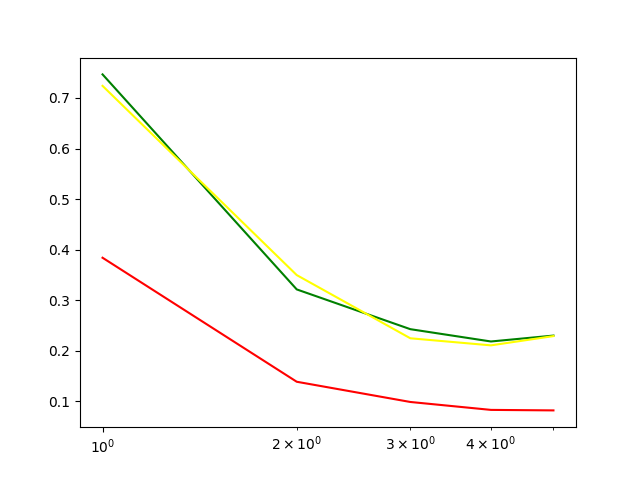
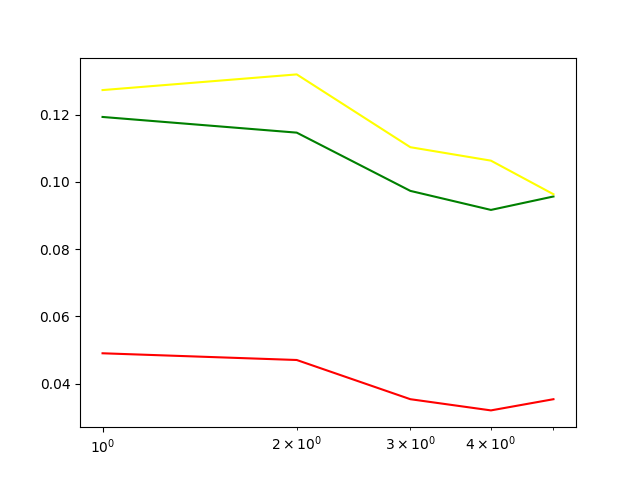
feat:checkpoint

diff --git a/experimentsGMM.py b/experimentsGMM.py
@@ -1,6 +1,6 @@
 from src_lib import *
 from data import *
-from src_lib.GMM_Model import GMMLBG_Diag_Model, GMMLBG_Model, GMMLBG_Tied_Model
+from src_lib.GMM_Model import GMMLBG_DT_Model, GMMLBG_Diag_Model, GMMLBG_Model, GMMLBG_Tied_Model
 from src_lib.SVM_Model import Kernel
 
 FOLDS = 5
@@ -137,7 +137,7 @@ class ExperimentsGMM:
         if VERBOSE:
             plot_vals(minDCFList, vals)
             plot_vals(accuracies, vals)
-            #0.0819 - 0.2300 - 0.2289
+            #0.0320 - 0.0916 - 0.1063
 
     def find_best_K_T_PCA8(self):
         
@@ -156,8 +156,8 @@ class ExperimentsGMM:
         minDCFs, vals, accs = kcv.find_best_par(model, self.DTR, self.LTR, 0,(1, 5), logbase=2, n_vals = 5, logBounds=False, e_prior=self.female_app[0])
         minDCFList.append(minDCFs)
         accuracies.append(accs)
-
-        model = GMMLBG_Tied_Model(2,STOP_TH, 1, preproc)#GMMLBG_Diag_Model(2,1e-3,3, bound=0.05)
+        
+        model = GMMLBG_Tied_Model(2,STOP_TH, 1, preProcess = preproc)#GMMLBG_Diag_Model(2,1e-3,3, bound=0.05)
         kcv = KCV(model, 5)
         minDCFs, vals, accs = kcv.find_best_par(model, self.DTR, self.LTR, 0,(1, 5), logbase=2, n_vals = 5, logBounds=False, e_prior=self.male_app[0])
         minDCFList.append(minDCFs)
@@ -165,6 +165,9 @@ class ExperimentsGMM:
         if VERBOSE:
             plot_vals(minDCFList, vals)
             plot_vals(accuracies, vals)
+
+    def plot_K_T_PCA8(self):
+        minDCFList = [[0.0670, 0.0670, 0.0849, 0.0996, 0.0803],[0.1600, 0.1590, 0.0206, 0.2956,0.2066],[0.1413, 0.1353,0.1156,0.1100,0.1153]]
 
     
     def find_best_K_T_Gauss(self):
@@ -185,7 +188,7 @@ class ExperimentsGMM:
         minDCFList.append(minDCFs)
         accuracies.append(accs)
 
-        model = GMMLBG_Tied_Model(2,STOP_TH, 1, preproc)#GMMLBG_Diag_Model(2,1e-3,3, bound=0.05)
+        model = GMMLBG_Tied_Model(2,STOP_TH, 1, preProcess=preproc)#GMMLBG_Diag_Model(2,1e-3,3, bound=0.05)
         kcv = KCV(model, 5)
         minDCFs, vals, accs = kcv.find_best_par(model, self.DTR, self.LTR, 0,(1, 5), logbase=2, n_vals = 5, logBounds=False, e_prior=self.male_app[0])
         minDCFList.append(minDCFs)
@@ -222,7 +225,7 @@ class ExperimentsGMM:
             plot_vals(accuracies, vals)
             #0.0819 - 0.2300 - 0.2289
 
-    def find_best_K_T_PCA8(self):
+    def find_best_K_N_PCA8(self):
         
         minDCFList = []
         accuracies = []
@@ -240,7 +243,7 @@ class ExperimentsGMM:
         minDCFList.append(minDCFs)
         accuracies.append(accs)
 
-        model = GMMLBG_Diag_Model(2,STOP_TH, 1, preproc)#GMMLBG_Diag_Model(2,1e-3,3, bound=0.05)
+        model = GMMLBG_Diag_Model(2,STOP_TH, 1, preProcess=preproc)#GMMLBG_Diag_Model(2,1e-3,3, bound=0.05)
         kcv = KCV(model, 5)
         minDCFs, vals, accs = kcv.find_best_par(model, self.DTR, self.LTR, 0,(1, 5), logbase=2, n_vals = 5, logBounds=False, e_prior=self.male_app[0])
         minDCFList.append(minDCFs)
@@ -252,7 +255,7 @@ class ExperimentsGMM:
     def plot_K_T_raw(self):
         minDCFList = [[0.0666, 0.7166, 0.0783, 0.0863, 0.0926], [0.156, 0.1716, 0.2030, 0.2640, 0.2470]]
     
-    def find_best_K_T_Gauss(self):
+    def find_best_K_N_Gauss(self):
         
         minDCFList = []
         accuracies = []
@@ -270,7 +273,7 @@ class ExperimentsGMM:
         minDCFList.append(minDCFs)
         accuracies.append(accs)
 
-        model = GMMLBG_Diag_Model(2,STOP_TH, 1, preproc)#GMMLBG_Diag_Model(2,1e-3,3, bound=0.05)
+        model = GMMLBG_Diag_Model(2,STOP_TH, 1, preProcess=preproc)#GMMLBG_Diag_Model(2,1e-3,3, bound=0.05)
         kcv = KCV(model, 5)
         minDCFs, vals, accs = kcv.find_best_par(model, self.DTR, self.LTR, 0,(1, 5), logbase=2, n_vals = 5, logBounds=False, e_prior=self.male_app[0])
         minDCFList.append(minDCFs)
@@ -280,6 +283,92 @@ class ExperimentsGMM:
             plot_vals(minDCFList, vals)
             plot_vals(accuracies, vals)
 
+    def find_best_K_NT_raw(self):
+        
+        minDCFList = []
+        accuracies = []
+        
+        model = GMMLBG_DT_Model(2,STOP_TH, 1)#GMMLBG_Diag_Model(2,1e-3,3, bound=0.05)
+        kcv = KCV(model, 5)
+        minDCFs, vals, accs = kcv.find_best_par(model, self.DTR, self.LTR, 0,(1, 5), logbase=2, n_vals = 5, logBounds=False, e_prior=self.bal_app[0])
+        minDCFList.append(minDCFs)
+        accuracies.append(accs)
+
+        model = GMMLBG_DT_Model(2,STOP_TH, 1)#GMMLBG_Diag_Model(2,1e-3,3, bound=0.05)
+        kcv = KCV(model, 5)
+        minDCFs, vals, accs = kcv.find_best_par(model, self.DTR, self.LTR, 0,(1, 5), logbase=2, n_vals = 5, logBounds=False, e_prior=self.female_app[0])
+        minDCFList.append(minDCFs)
+        accuracies.append(accs)
+
+        model = GMMLBG_DT_Model(2,STOP_TH, 1)#GMMLBG_Diag_Model(2,1e-3,3, bound=0.05)
+        kcv = KCV(model, 5)
+        minDCFs, vals, accs = kcv.find_best_par(model, self.DTR, self.LTR, 0,(1, 5), logbase=2, n_vals = 5, logBounds=False, e_prior=self.male_app[0])
+        minDCFList.append(minDCFs)
+        accuracies.append(accs)
+        if VERBOSE:
+            plot_vals(minDCFList, vals)
+            plot_vals(accuracies, vals)
+            #0.0819 - 0.2300 - 0.2289
+
+    def find_best_K_NT_PCA8(self):
+        
+        minDCFList = []
+        accuracies = []
+        preproc = PCA(8)
+        
+        model = GMMLBG_DT_Model(2,STOP_TH, 1, preProcess=preproc)#GMMLBG_Diag_Model(2,1e-3,3, bound=0.05)
+        kcv = KCV(model, 5)
+        minDCFs, vals, accs = kcv.find_best_par(model, self.DTR, self.LTR, 0,(1, 5), logbase=2, n_vals = 5, logBounds=False, e_prior=self.bal_app[0])
+        minDCFList.append(minDCFs)
+        accuracies.append(accs)
+
+        model = GMMLBG_DT_Model(2,STOP_TH, 1,preProcess=preproc)#GMMLBG_Diag_Model(2,1e-3,3, bound=0.05)
+        kcv = KCV(model, 5)
+        minDCFs, vals, accs = kcv.find_best_par(model, self.DTR, self.LTR, 0,(1, 5), logbase=2, n_vals = 5, logBounds=False, e_prior=self.female_app[0])
+        minDCFList.append(minDCFs)
+        accuracies.append(accs)
+
+        model = GMMLBG_DT_Model(2,STOP_TH, 1, preProcess=preproc)#GMMLBG_Diag_Model(2,1e-3,3, bound=0.05)
+        kcv = KCV(model, 5)
+        minDCFs, vals, accs = kcv.find_best_par(model, self.DTR, self.LTR, 0,(1, 5), logbase=2, n_vals = 5, logBounds=False, e_prior=self.male_app[0])
+        minDCFList.append(minDCFs)
+        accuracies.append(accs)
+        if VERBOSE:
+            plot_vals(minDCFList, vals)
+            plot_vals(accuracies, vals)
+
+    
+    def find_best_K_NT_Gauss(self):
+        
+        minDCFList = []
+        accuracies = []
+        preproc = Gaussianize()
+        
+        model = GMMLBG_Diag_Model(2,STOP_TH, 1, preProcess=preproc)#GMMLBG_Diag_Model(2,1e-3,3, bound=0.05)
+        kcv = KCV(model, 5)
+        minDCFs, vals, accs = kcv.find_best_par(model, self.DTR, self.LTR, 0,(1, 5), logbase=2, n_vals = 5, logBounds=False, e_prior=self.bal_app[0])
+        minDCFList.append(minDCFs)
+        accuracies.append(accs)
+
+        model = GMMLBG_Diag_Model(2,STOP_TH, 1,preProcess=preproc)#GMMLBG_Diag_Model(2,1e-3,3, bound=0.05)
+        kcv = KCV(model, 5)
+        minDCFs, vals, accs = kcv.find_best_par(model, self.DTR, self.LTR, 0,(1, 5), logbase=2, n_vals = 5, logBounds=False, e_prior=self.female_app[0])
+        minDCFList.append(minDCFs)
+        accuracies.append(accs)
+
+        model = GMMLBG_Diag_Model(2,STOP_TH, 1, preProcess=preproc)#GMMLBG_Diag_Model(2,1e-3,3, bound=0.05)
+        kcv = KCV(model, 5)
+        minDCFs, vals, accs = kcv.find_best_par(model, self.DTR, self.LTR, 0,(1, 5), logbase=2, n_vals = 5, logBounds=False, e_prior=self.male_app[0])
+        minDCFList.append(minDCFs)
+        accuracies.append(accs)
+
+        if VERBOSE:
+            plot_vals(minDCFList, vals)
+            plot_vals(accuracies, vals)
+
+    
+    
+
 if __name__ == "__main__":
     exps = ExperimentsGMM("gend")
 
@@ -287,9 +376,12 @@ if __name__ == "__main__":
     #exps.find_best_K_FC_Gauss()
     #exps.find_best_K_FC_PCA8()
     #exps.plot_K_FC_PCA8()
-    exps.find_best_K_T_raw()
+    #exps.find_best_K_T_raw()
     exps.find_best_K_T_PCA8()
     exps.find_best_K_T_Gauss()
     #exps.find_best_K_N_raw()
     #exps.find_best_K_N_PCA8()
     #exps.find_best_K_N_Gauss()
+    #exps.find_best_K_NT_raw()
+    #exps.find_best_K_NT_PCA8()
+    #exps.find_best_K_NT_Gauss()

diff --git a/src_lib/GMM_Model.py b/src_lib/GMM_Model.py
@@ -190,10 +190,56 @@ class GMMLBG_Tied_Model(GMMLBG_Model):
             w = Z/X.shape[1]
             mu = vcol(F/Z)
             C = S/Z - np.dot(mu, mu.T)
-            if self.constrained:
-                U, s, _ = np.linalg.svd(C)
-                s[s<self.bound] = self.bound
-                C = np.dot(U, vcol(s)*U.T)
+            
+
+            nextGMM.append((w,mu,C, Z))
+
+        
+
+    
+        dim = nextGMM[0][2].shape[0]
+        sumC =np.zeros((dim, dim))
+        for i in range(0,len(nextGMM)):
+            sumC += nextGMM[i][3] *nextGMM[i][2]
+        
+
+        sumC = sumC/responsibilities.shape[1]
+
+        if self.constrained:
+            sumC = sumC/len(nextGMM)
+            U, s, _ = np.linalg.svd(sumC)
+            s[s<self.bound] = self.bound
+            sumC = np.dot(U, vcol(s)*U.T)
+
+        for i in range(0,len(nextGMM)):
+                
+            nextGMM[i] = (nextGMM[i][0],nextGMM[i][1], sumC )
+        
+        return nextGMM
+
+class GMMLBG_DT_Model(GMMLBG_Model):
+    def __init__(self, n_classes: int, stop_threshold: float, n_gauss_exp: int, alpha: float = 0.1, preProcess: PreProcess = PreProcess("None"), constrained: bool = True, verbose: bool = False, bound: float = 0.01):
+        super().__init__(n_classes, stop_threshold, n_gauss_exp, alpha, preProcess, constrained, verbose, bound=bound)
+    
+    def _get_next_params(self, responsibilities: np.ndarray, X: np.ndarray) -> List[Tuple[float, np.ndarray, np.ndarray]]:
+        nextGMM : List[Tuple[float, np.ndarray, np.ndarray, float]] = []
+        computed = False
+        
+        for g in range(0, responsibilities.shape[0]):
+            resp = responsibilities[g, :]
+            Z= resp.sum()
+            F= (vrow(resp)*X).sum(1)
+            S= np.dot(X, (vrow(resp)*X).T)
+            w = Z/X.shape[1]
+            mu = vcol(F/Z)
+            C = S/Z - np.dot(mu, mu.T)
+            
+            dim = C.shape[0]
+            m = np.zeros((dim, dim))
+            diag = np.diag(C)
+            positions = [i for i in range(0,dim)]
+            m[positions, positions] = diag[positions]
+            C=m
 
             nextGMM.append((w,mu,C, Z))
 
